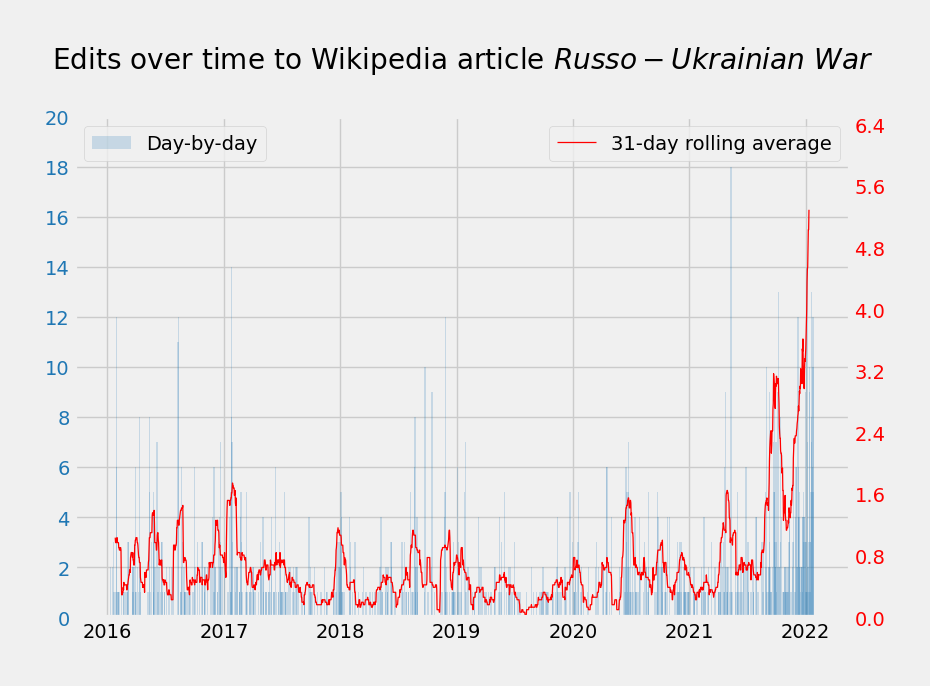
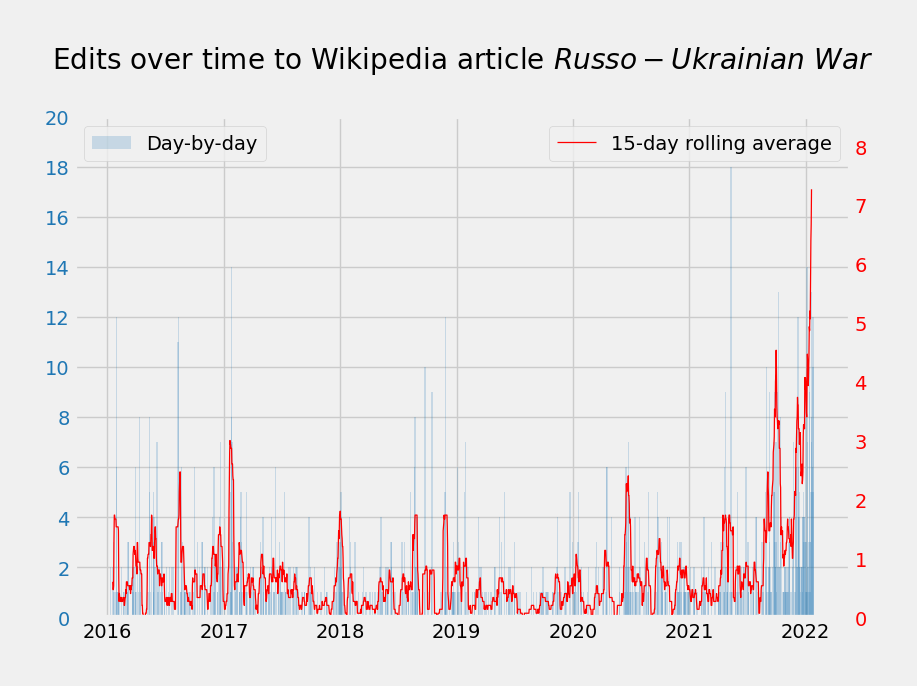
final

diff --git a/main.py b/main.py
@@ -38,7 +38,7 @@ values = list(date_counts.values())
 
 print("no. of days =", dates[1] - dates[-1] + datetime.timedelta(days=1))
 
-days_rolling_avg = 31
+days_rolling_avg = 15
 rolling_avg = {}
 diff = datetime.timedelta(days=days_rolling_avg//2)
 base_day = dates[0] - diff
@@ -61,7 +61,7 @@ for tl in ax1.get_yticklabels():
 
 ax2 = ax1.twinx()
 ax2.grid(False)
-ax2.set_ylim([0.0, 6.5])
+ax2.set_ylim([0.0, 8.5])
 ax2.yaxis.set_major_locator(plt.MaxNLocator(integer=False))
 ax2.plot_date(matplotlib.dates.date2num(list(rolling_avg.keys())), list(rolling_avg.values()), 'r-', linewidth=0.9, label=f'{days_rolling_avg}-day rolling average')
 for tl in ax2.get_yticklabels():
